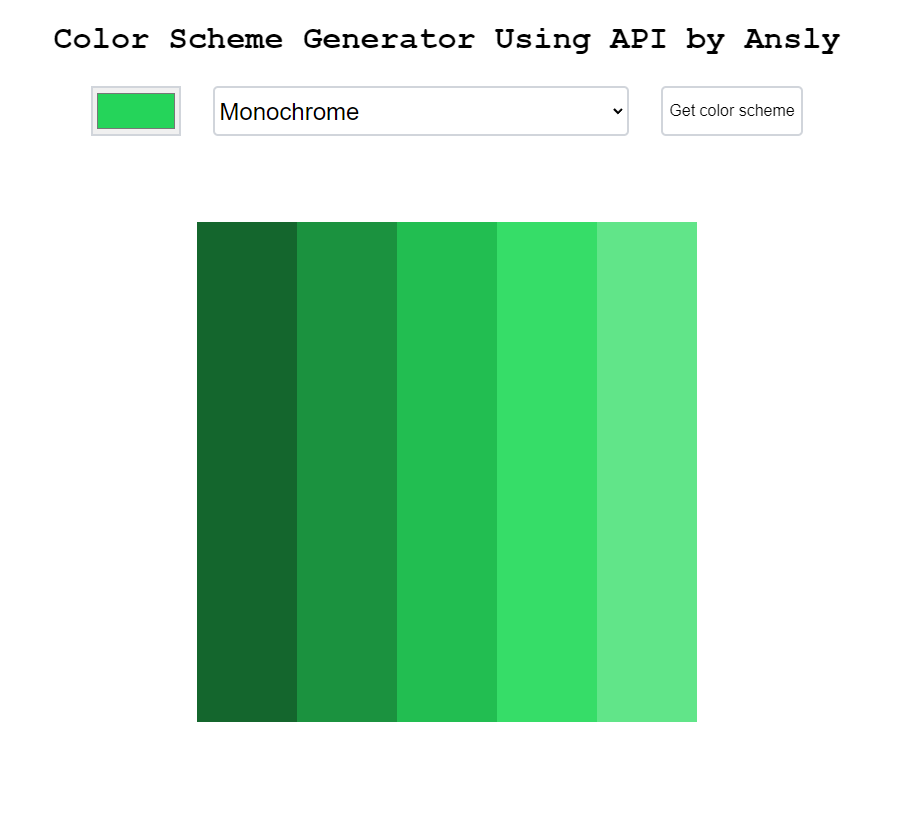
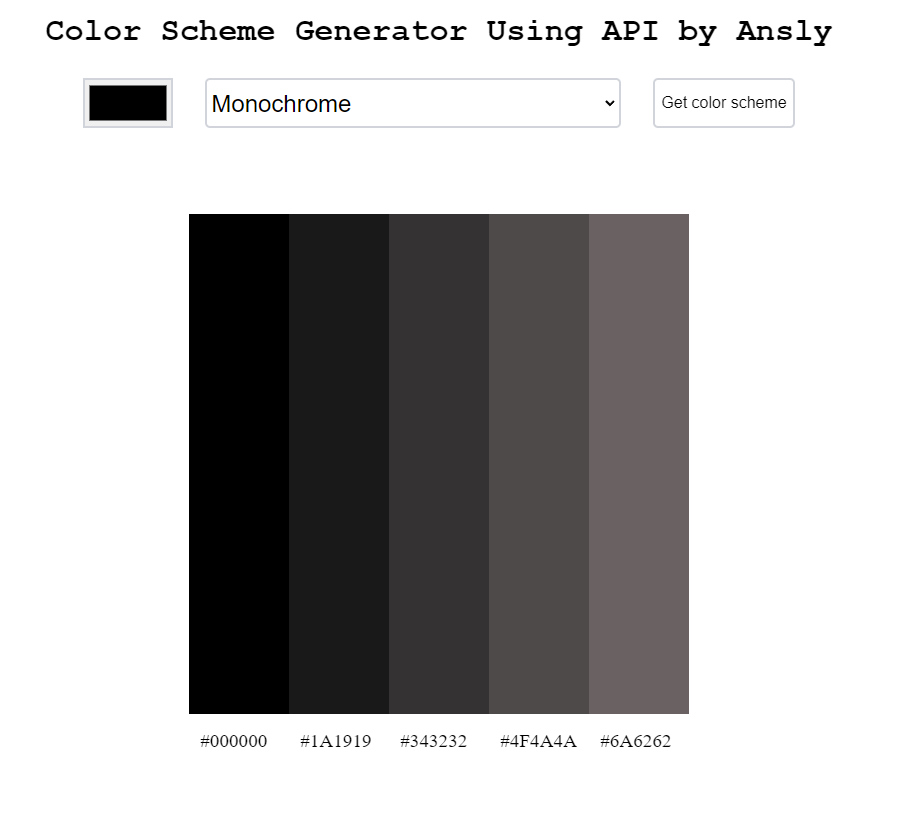
Added hex codes

diff --git a/index.js b/index.js
@@ -47,7 +47,10 @@ function renderHtml(data) {
        }
 
        for (let i = 0; i < valuesArray.length; i++) {
-            containerDiv.innerHTML += `<div class="colorDiv" style="background: ${valuesArray[i]}"> </div>`
+            containerDiv.innerHTML += `
+            <div class="colorDiv" style="background: ${valuesArray[i]}"> 
+            <div style="position:fixed; bottom: 20%; margin-left: 0.7rem; font-size: 1.2rem">${valuesArray[i]}</div>
+            </div>`
             
         
        }
